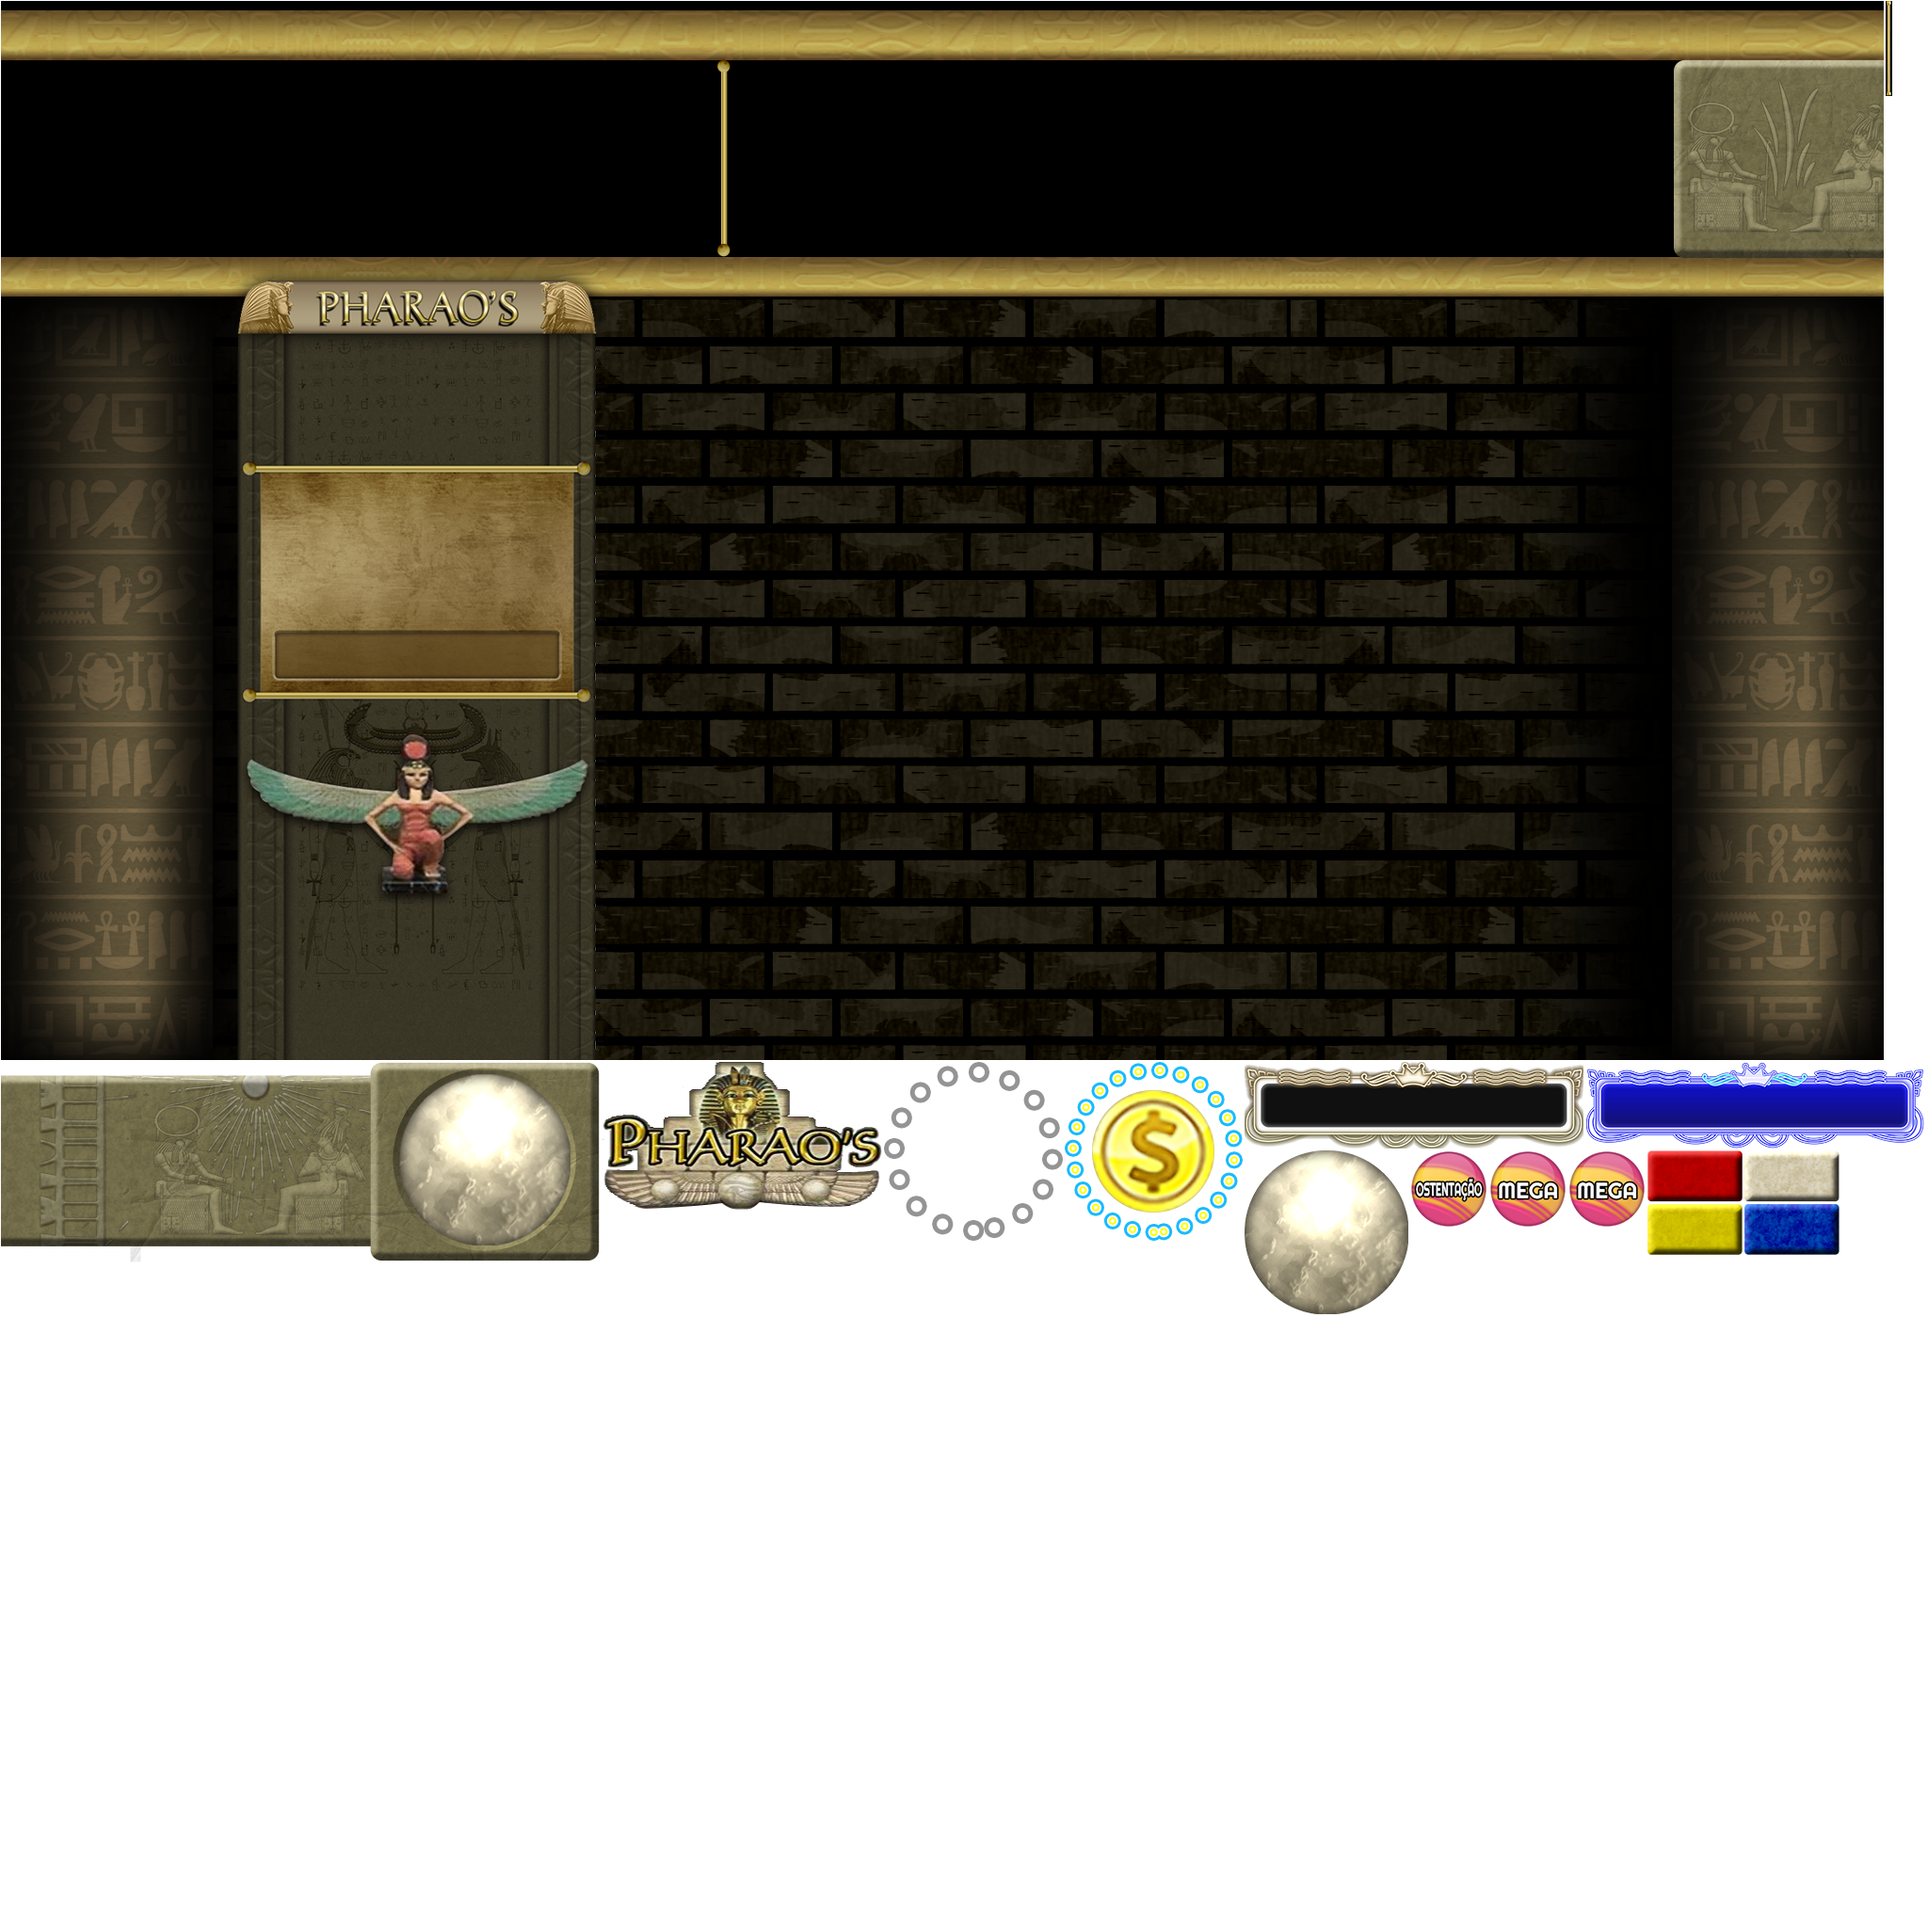
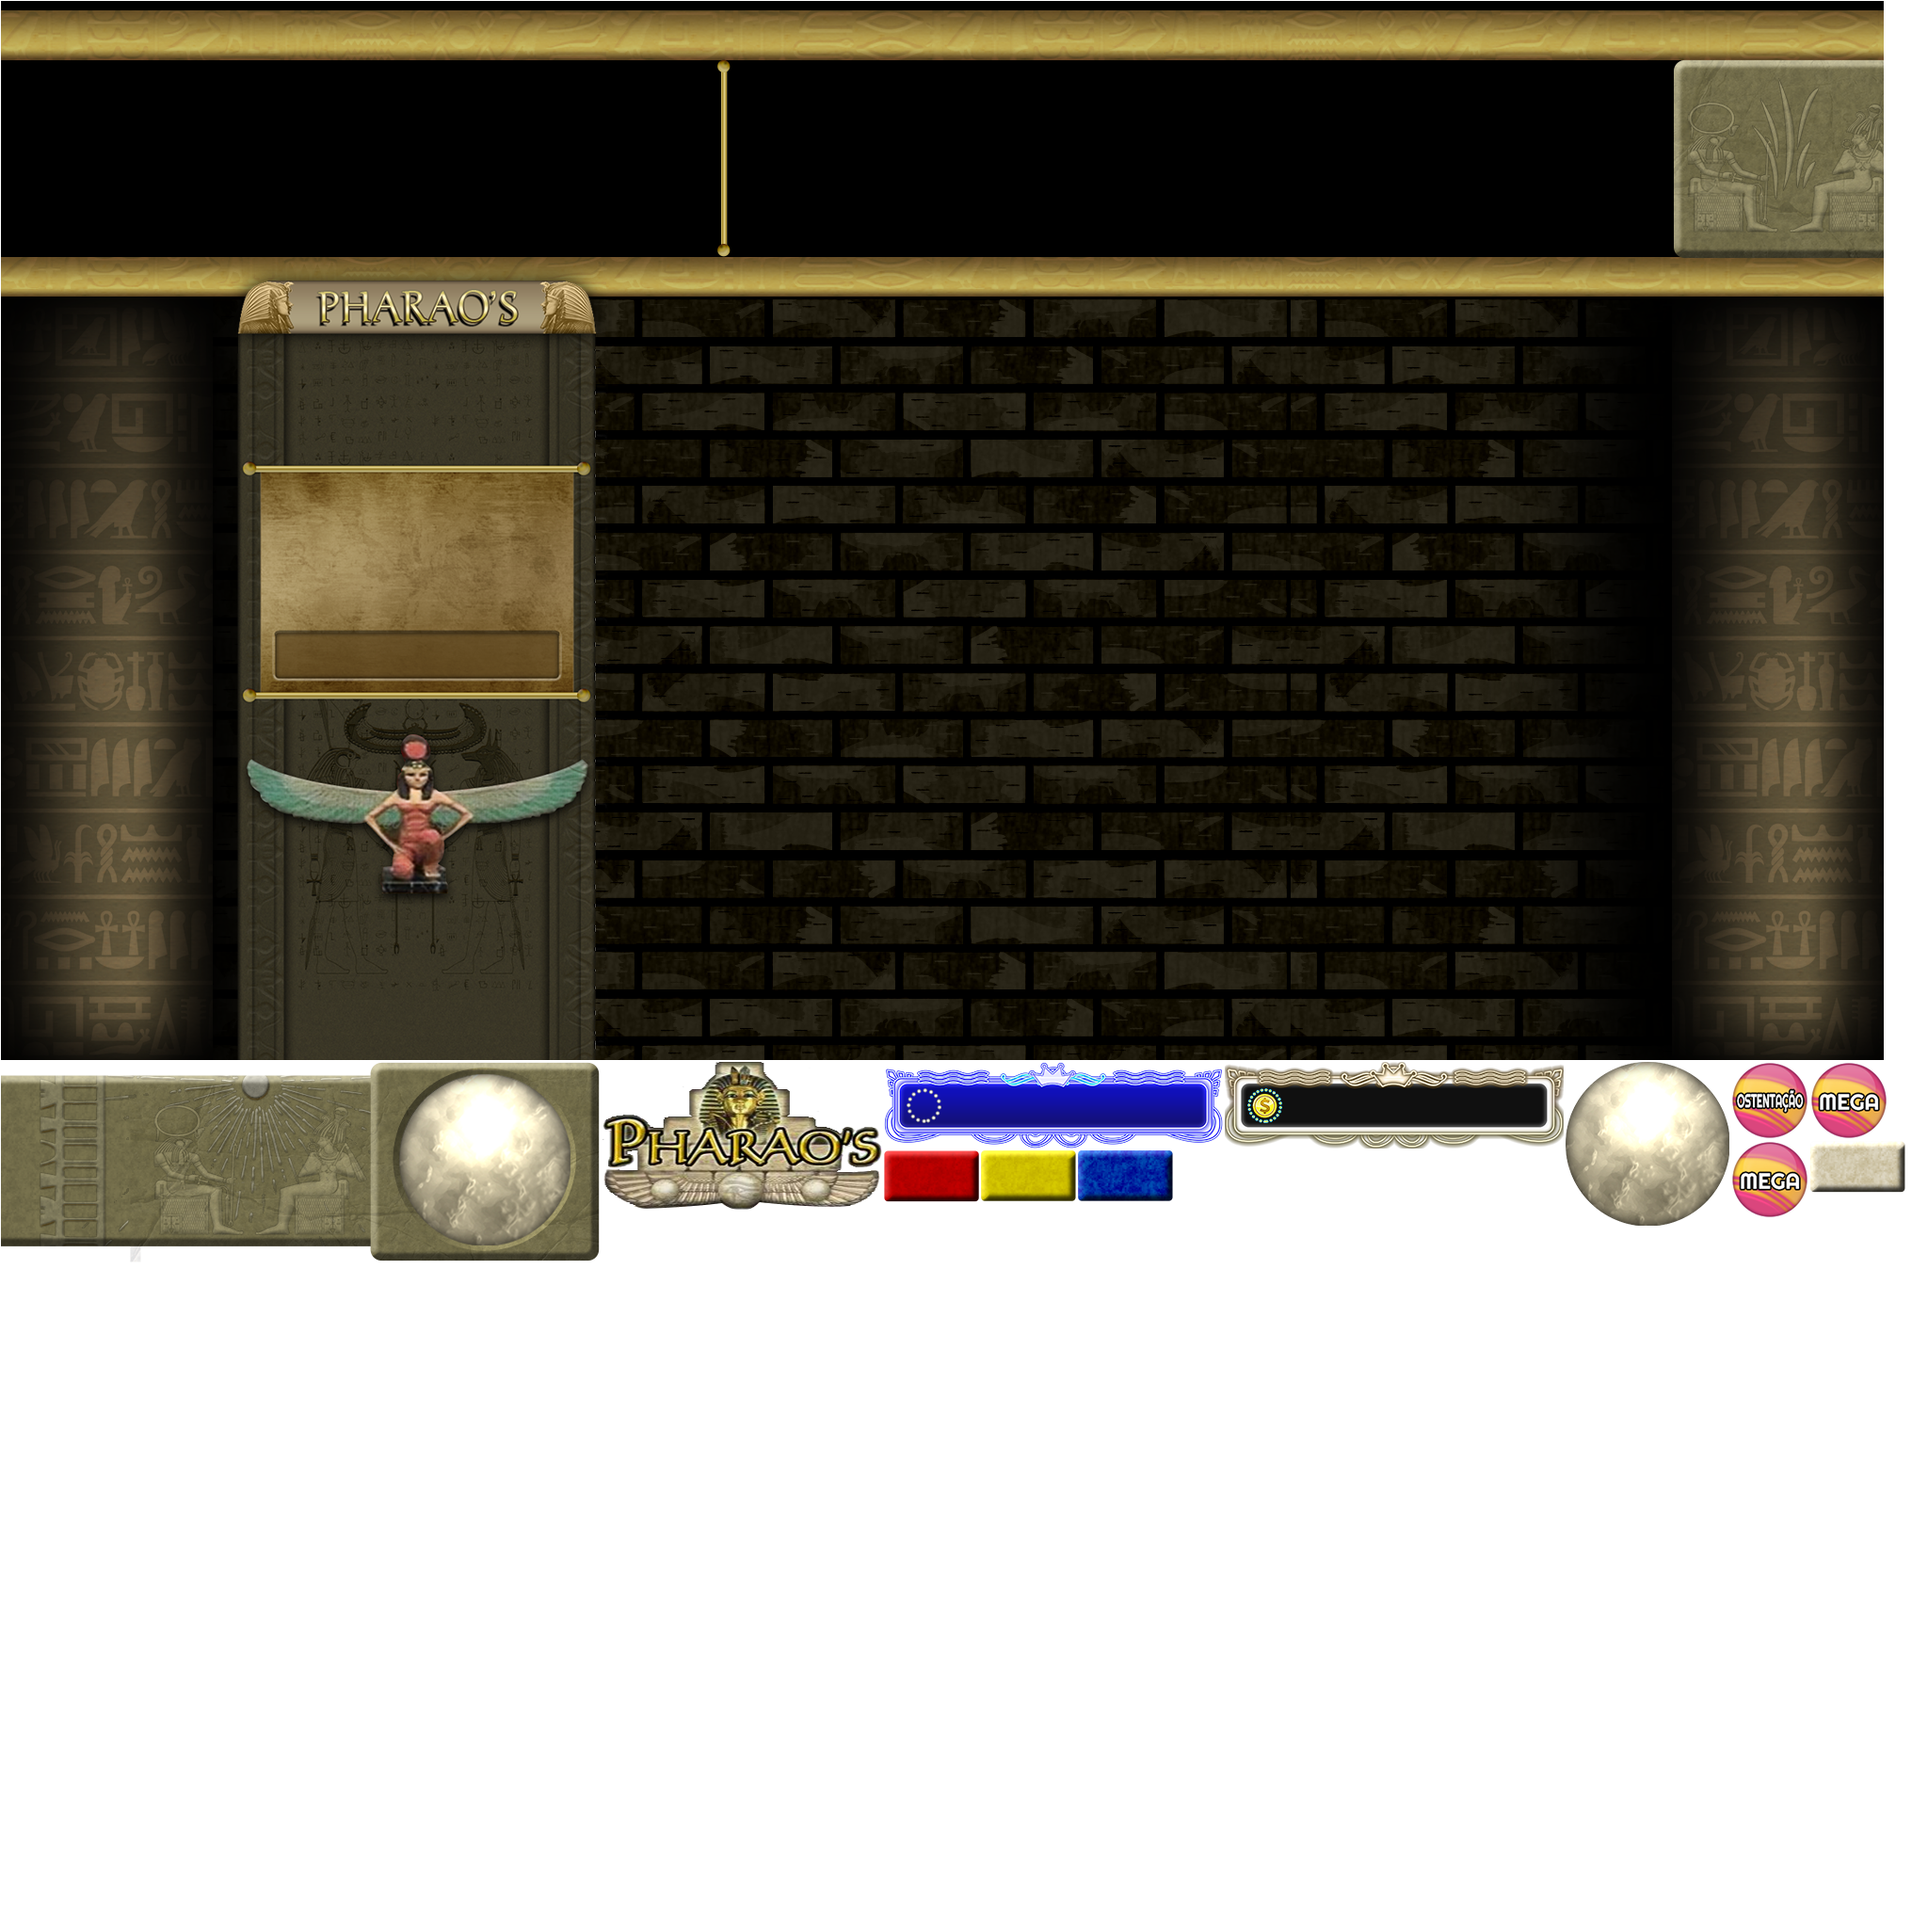
jackpot ui

Changed region(s): [[0.4375, 0.5312, 1.0, 0.6875], [0.9688, 0.0, 1.0, 0.0312]]

diff --git a/newMoblie/src/bingoGames/jackpots/JackpotLayer.ts b/newMoblie/src/bingoGames/jackpots/JackpotLayer.ts
@@ -21,6 +21,9 @@ class JackpotLayer extends egret.DisplayObjectContainer {
 		this.x = jackpotContainerPosition.x;
 		this.y = jackpotContainerPosition.y;
 
+		this.jackpotLock = Com.addBitmapAt(this, BingoMachine.getAssetStr("jackpot_lock"), lockPosition.x, lockPosition.y);
+		this.jackpotLock.touchEnabled = true;
+
 		if( tipRect ){
 			this.tip = Com.addTextAt( this, tipRect.x, tipRect.y, tipRect.width, tipRect.height, tipTextSize, false, true );
         	this.tip.textColor = tipTextColor;
@@ -32,9 +35,6 @@ class JackpotLayer extends egret.DisplayObjectContainer {
 		this.jackpotText.verticalAlign = "middle";
 		this.jackpotValue = this.countJackpotByRate( Math.round( jackpot ) );
         this.jackpotMinBet = jackpotMinBet;
-
-		this.jackpotLock = Com.addBitmapAt(this, BingoMachine.getAssetStr("jackpot_lock"), lockPosition.x, lockPosition.y);
-		this.jackpotLock.touchEnabled = true;
 
 		this.tryJackpotMinBet();
 	}

diff --git a/newMoblie/src/bingoGames/v2games/aztecAndPharos/Pharos.ts b/newMoblie/src/bingoGames/v2games/aztecAndPharos/Pharos.ts
@@ -57,7 +57,7 @@ class Pharos extends AztecPharosSuper{
 /******************************************************************************************************************************************************************/    
 
     protected showJackpot( jackpot: number, jackpotMinBet: number, betConfig: Array<Object> ){
-        this.addChild( this.jackpotArea = new JackpotLayer( new egret.Point( 35, 220 ), jackpot, jackpotMinBet, betConfig, new egret.Point( -14, -15 ), new egret.Rectangle( 0, 30, 135, 16 ), 16, 0xd6c576, new egret.Rectangle( 0, 0, 135, 18 ), 18, 0xd6c576 ) );
+        this.addChild( this.jackpotArea = new JackpotLayer( new egret.Point( 261, 374 ), jackpot, jackpotMinBet, betConfig, new egret.Point( 0, 0 ), new egret.Rectangle( 70, 30, 260, 38 ), 30, 0xFFFFE3 ) );
     }
 
     protected getPaytablesFit( paytabledName: string, callback: Function = null ): void{

diff --git a/newMoblie/src/bingoGames/v2games/aztecAndPharos/AztecPharosSuper.ts b/newMoblie/src/bingoGames/v2games/aztecAndPharos/AztecPharosSuper.ts
@@ -17,11 +17,7 @@ class AztecPharosSuper extends V2Game{
 	protected init(){
         super.init();
 
-        this.addGameText( 10, 155, 20, 0xE8D4AF, "bet", true, 100 );
-        this.addGameText( 568, 155, 20, 0xE8D4AF, "credit", true, 100 );
-
-        this.betText = this.addGameTextCenterShadow( 90, 155, 19, 0xE8D4AF, "bet", true, 180, true, false );
-        this.creditText = this.addGameTextCenterShadow( 650, 155, 19, 0xE8D4AF, "credit", true, 180, true, false );
+        this.showNoBetAndCredit();
 
         if( this.extraUIObject ) this.extraUIShowNumber();
 	}
